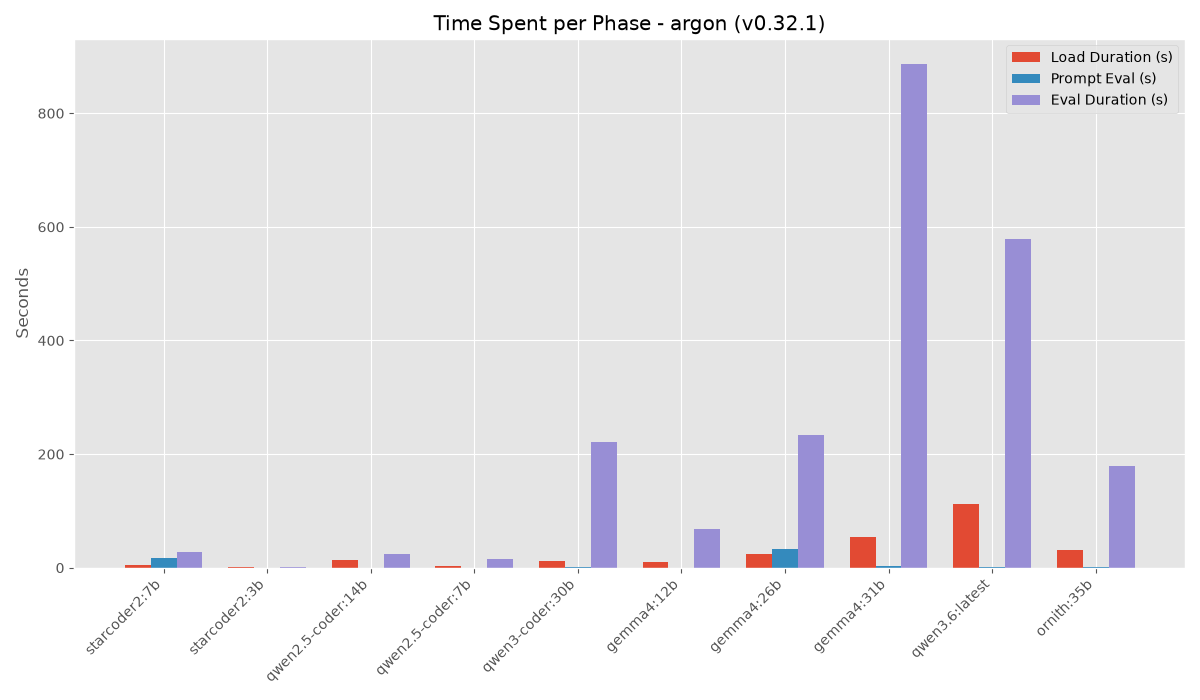
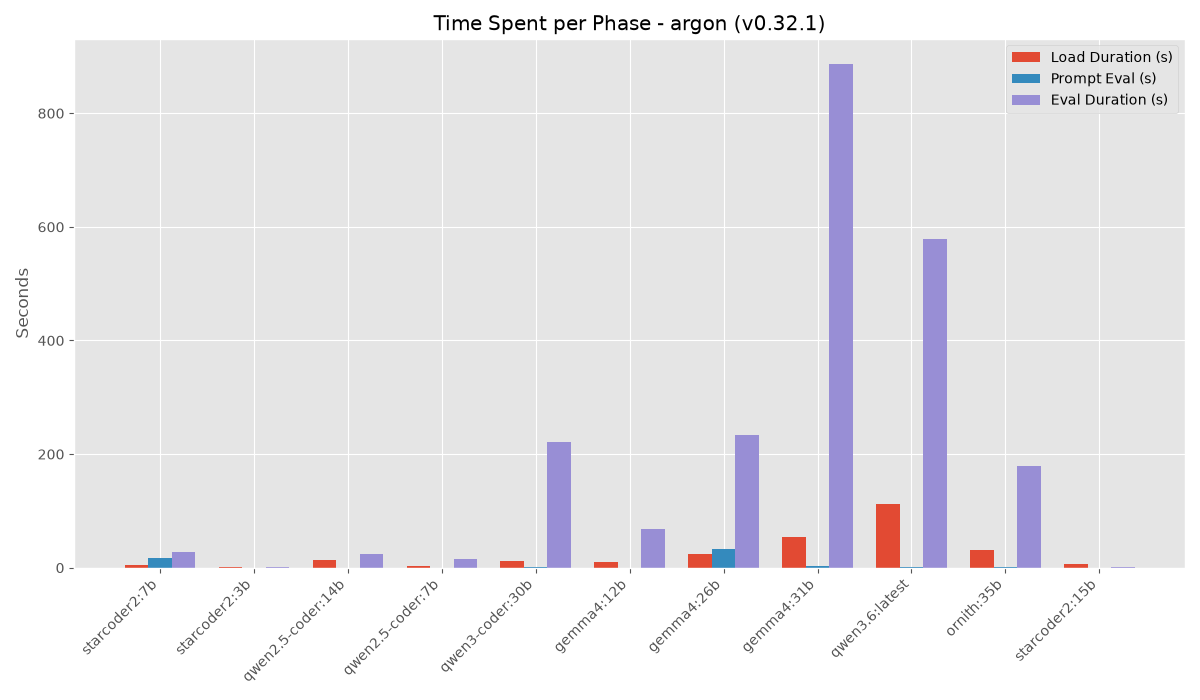
add argon

diff --git a/runner.py b/runner.py
@@ -21,6 +21,8 @@ MODELS = [
 PROMPT = "Write a python program showing off the astar algorithm."
 OUTPUT_DIR = "ollama_results"
 
+MODELS_TRIMMED = [mod.strip() for mod in MODELS]
+
 
 def get_ollama_version():
     """Gets the installed ollama version."""
@@ -119,7 +121,7 @@ def run_ollama_and_save():
         "eval duration",
     ]
 
-    for model in MODELS:
+    for model in MODELS_TRIMMED:
         safe_model_name = model.replace(":", "_")
         filepath = os.path.join(target_dir, f"{safe_model_name}_stats.txt")
 